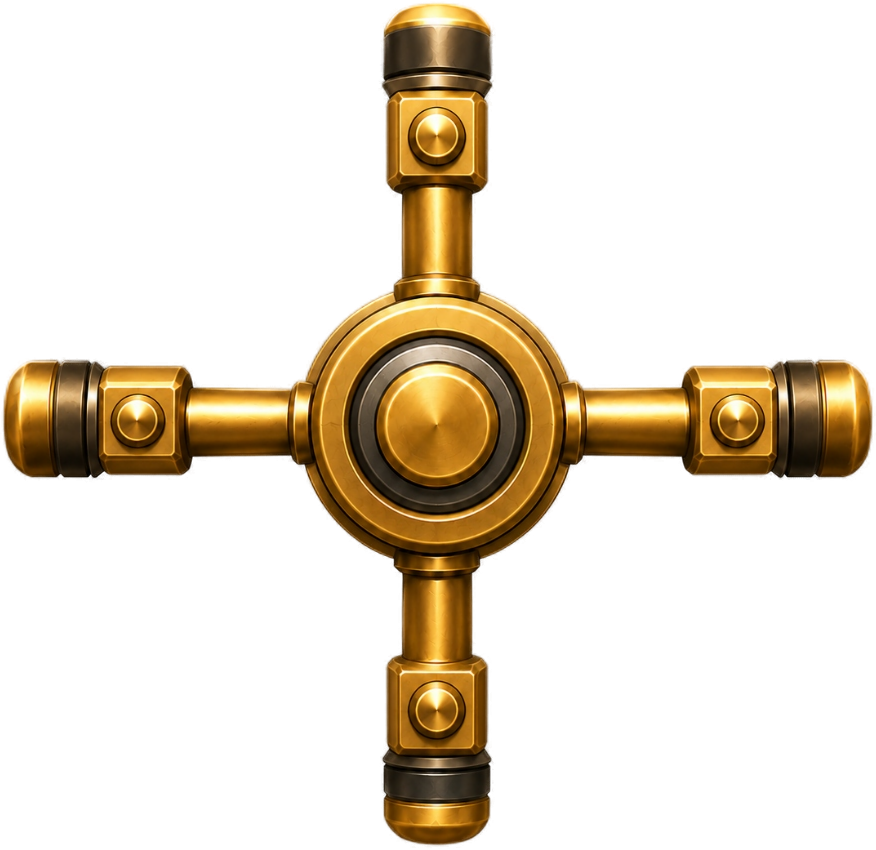
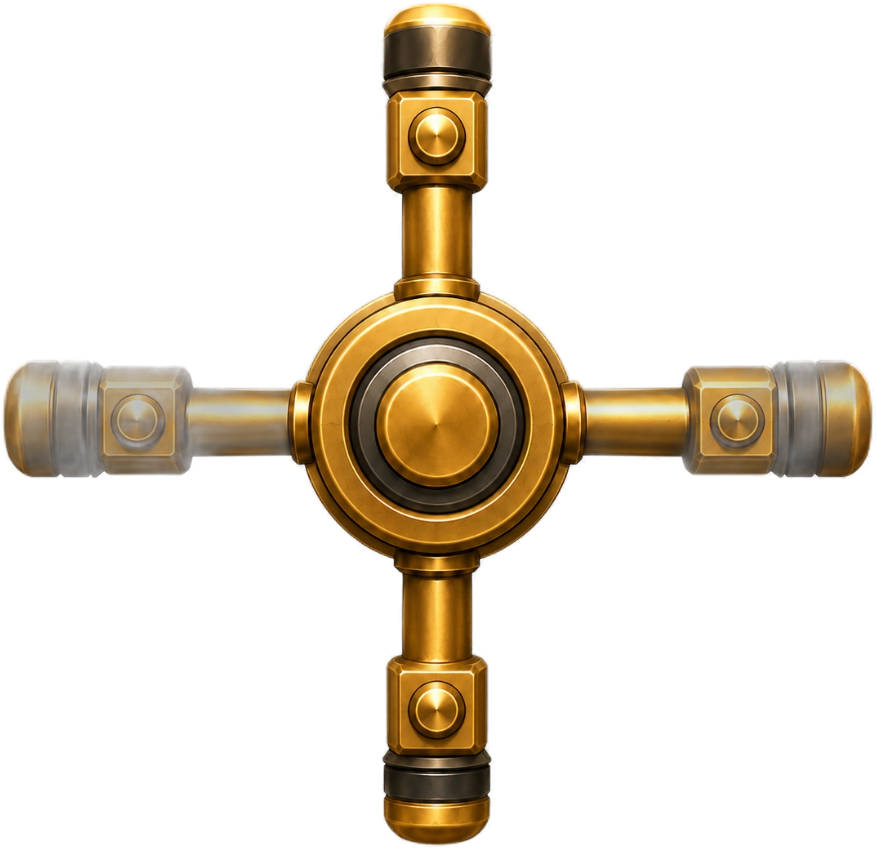
Remove background from moneybags and scale them down

Changed region(s): [[0.0, 0.3976, 0.339, 0.5812], [0.6473, 0.3976, 1.0, 0.5812]]

diff --git a/src/scenes/BootScene.js b/src/scenes/BootScene.js
@@ -60,11 +60,11 @@ export default class BootScene extends Phaser.Scene {
     this.load.image('safe_diamond', 'assets/转式保险箱.png');
     this.load.image('moneybag', 'assets/钱袋.png');
     this.load.image('handle', 'assets/把手.png');
-    this.load.image('bag_brown', 'assets/棕色袋子.jpg');
-    this.load.image('bag_dark', 'assets/深色袋子.jpg');
-    this.load.image('bag_green', 'assets/绿色袋子.png');
-    this.load.image('bag_gold', 'assets/金色袋子.png');
-    this.load.image('bag_yellow', 'assets/黄色袋子.jpg');
+    this.load.image('bag_brown', 'assets/bag_brown.png');
+    this.load.image('bag_dark', 'assets/bag_dark.png');
+    this.load.image('bag_green', 'assets/bag_green.png');
+    this.load.image('bag_gold', 'assets/bag_gold.png');
+    this.load.image('bag_yellow', 'assets/bag_yellow.png');
     this.load.image('car', 'assets/汽车.png');
     this.load.image('gameBg2', 'assets/游戏主画面2.png');
     this.load.image('gameBg3', 'assets/游戏主画面3.png');

diff --git a/src/scenes/GameScene.js b/src/scenes/GameScene.js
@@ -4,7 +4,7 @@ import {
   BANK, PARTNER_LINES, ROBBER_LINES, ROBBER_QUIPS,
 } from '../config/gameConfig.js';
 
-const BAG_SCALE = 0.48;
+const BAG_SCALE = 0.28;
 const PARTNER_SCALE = 42 / 104;
 
 // 主角显示尺寸

diff --git a/生成图片API.md b/生成图片API.md
@@ -1,22 +1,3 @@
-一定要生成灰色背景然后再用后面的api扣
-关于将此生图 API 用于别的应用，需要提供的信息： 当前项目使用的是 无印科技 (Wuyin API) 的异步 GPT 生图接口。如果要将这个生图能力接入到别的项目中，你需要告诉那个项目的开发人员（或在配置时准备好）以下几个核心内容：
-API 密钥 (API Key)：即当前环境变量中配置的 OPENAI_API_KEY（该平台复用了这个变量名作为他们的鉴权 Key）。
-创建任务接口 (POST)：
-URL: https://api.wuyinkeji.com/api/async/image_gpt
-Headers: 需要携带 "Authorization": "你的API_KEY" 和 "Content-Type": "application/json"
-Body 参数:
-prompt: 提示词字符串。
-size: 图片比例（支持 "1:1", "16:9", "9:16" 等）。
-urls (可选): 如果有参考图/垫图，需传入一个包含图片 URL 的数组（例如 ["http://..."]）。
-轮询查询结果接口 (GET)：因为是异步生图，创建任务后会返回一个任务 ID（id），需要用它来轮询生图结果。
-URL: https://api.wuyinkeji.com/api/async/detail?key=你的API_KEY&id=任务ID
-状态判断逻辑:
-返回的 status 或 state 为 1 或 0 时，表示正在生成中。
-返回 2 时，表示生成成功，此时可以从返回数据的 result[0]、image 或 url 字段中提取生成的图片链接。
-返回 3 或 -1 时，表示生成失败。
-你只需要把 两个接口的URL、传参格式（prompt, size, urls） 以及 异步轮询的逻辑（等待返回 status 为 2） 告诉另一个项目的对接人即可。
-API key t9zV9cgzuzX2iGKGqRNZ1nHlKD
-
 # 背景移除 — 图片去背景/抠图 — API 使用指南
 
 **服务状态**: ✅运行中
@@ -27,14 +8,14 @@ API key t9zV9cgzuzX2iGKGqRNZ1nHlKD
 ⚠️ 不要使用 ComfyUI 做去背景，请使用本服务。
 
 ## 基础信息
-- **Gateway 地址**: http://192.168.4.126:9800
-- **代理调用**: ANY http://192.168.4.126:9800/api/proxy/background-removal/{path}
-- **服务详情**: GET http://192.168.4.126:9800/api/services/background-removal
+- **Gateway 地址**: http://k165.com:9800
+- **代理调用**: ANY http://k165.com:9800/api/proxy/background-removal/{path}
+- **服务详情**: GET http://k165.com:9800/api/services/background-removal
 
 ## 使用方法
 所有请求通过代理路径发送，例如：
 ```
-POST http://192.168.4.126:9800/api/proxy/background-removal/api/remove-background-single
+POST http://k165.com:9800/api/proxy/background-removal/api/remove-background-single
 ```
 如果服务未启动，代理会自动拉起并返回 HTTP 202 + Retry-After 头，等待指定秒数后重试。
 
@@ -49,7 +30,7 @@ POST http://192.168.4.126:9800/api/proxy/background-removal/api/remove-backgroun
   - `alpha_matting` (boolean, 可选): 边缘优化（推荐开启）
 - **curl 示例**:
 ```bash
-curl -X POST http://192.168.4.126:9805/api/remove-background-single \
+curl -X POST http://k165.com:9801/api/remove-background-single \
   -F 'file=@input.jpg' \
   -F 'model=birefnet-general' \
   -F 'alpha_matting=true' \
@@ -65,7 +46,7 @@ curl -X POST http://192.168.4.126:9805/api/remove-background-single \
   - `model` (string, 可选): 推荐 birefnet-general
 - **curl 示例**:
 ```bash
-curl -X POST http://192.168.4.126:9805/api/remove-background \
+curl -X POST http://k165.com:9801/api/remove-background \
   -F 'files=@img1.jpg' \
   -F 'files=@img2.jpg' \
   -F 'model=birefnet-general' \
@@ -74,6 +55,6 @@ curl -X POST http://192.168.4.126:9805/api/remove-background \
 
 
 ## 注意事项
-- 所有请求都走 http://192.168.4.126:9800/api/proxy/background-removal/ 代理路径，不要直连后端端口
+- 所有请求都走 http://k165.com:9800/api/proxy/background-removal/ 代理路径，不要直连后端端口
 - 收到 202 状态码时按 Retry-After 头等待后重试
 - 不要修改任何服务的源代码文件